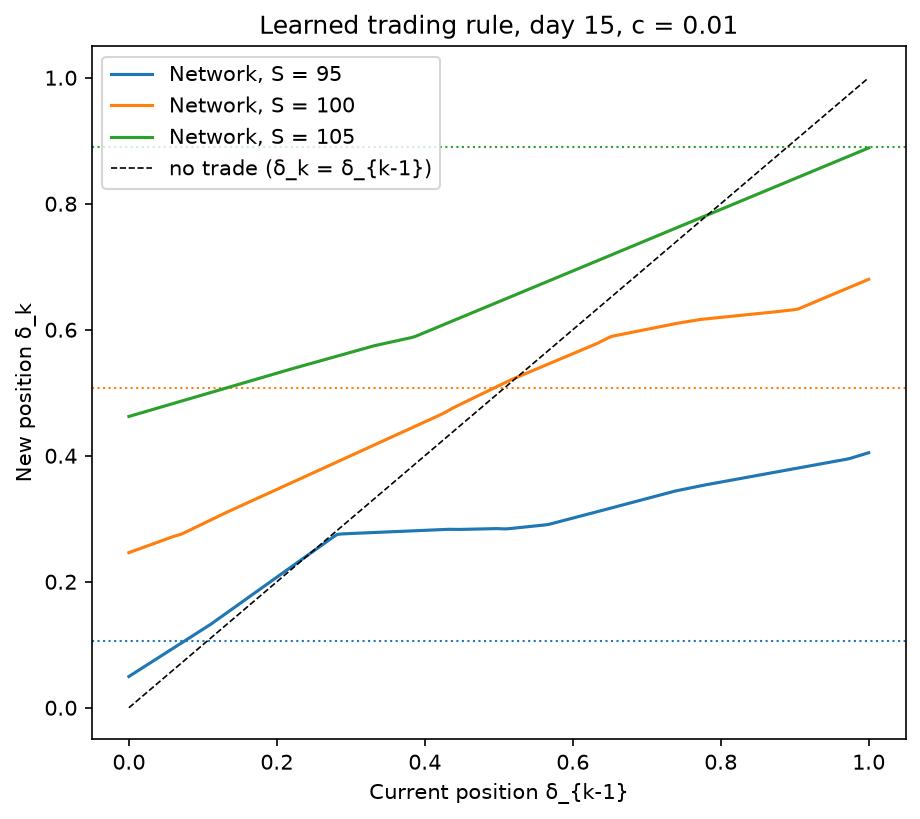
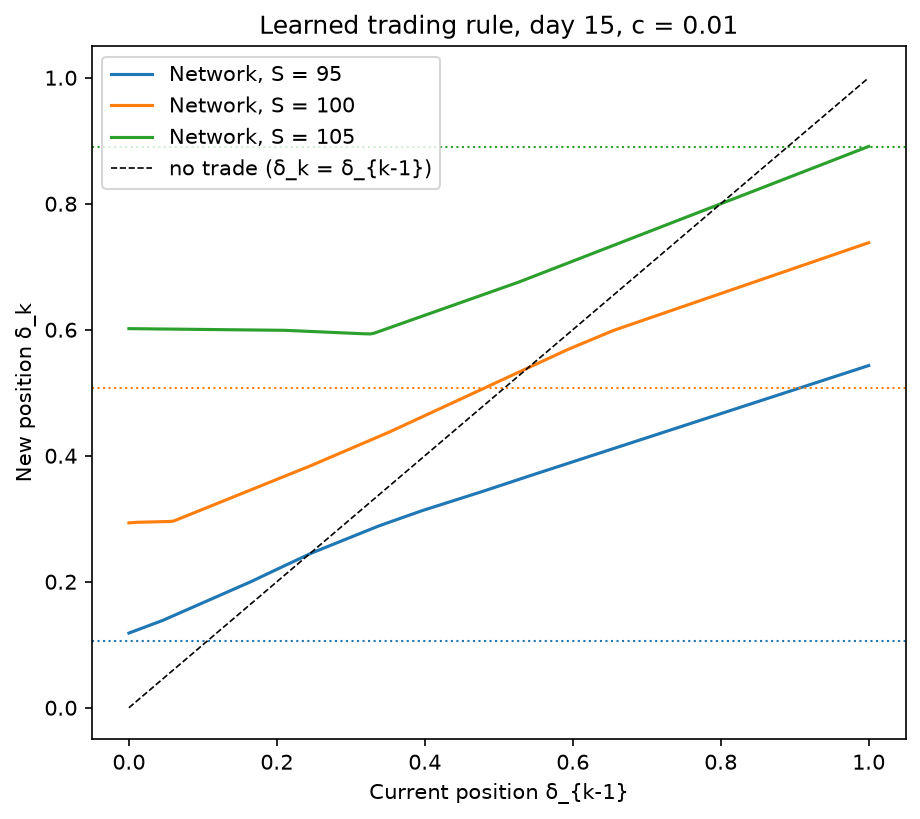
extended benchamrk with transaction cost

diff --git a/src/hedging.py b/src/hedging.py
@@ -45,3 +45,18 @@ def pnl_torch(S_b, deltas, p0, K, c):
     costs = (c * S_b[:, :-1] * torch.abs(deltas - prev)).sum(dim=1)
 
     return p0 - payoff + hedge_gain - costs
+
+def band_strategy(S, K, T, sigma, h):
+    n_paths, n_points = S.shape
+    n_steps = n_points - 1
+
+    bs = bs_delta_strategy(S, K, T, sigma)
+    deltas = np.zeros_like(bs)
+    delta_prev = np.zeros(n_paths)
+
+    for k in range(n_steps):
+        delta_k = np.clip(delta_prev, bs[:, k] - h, bs[:, k] + h)
+        deltas[:, k] = delta_k
+        delta_prev = delta_k
+
+    return deltas
